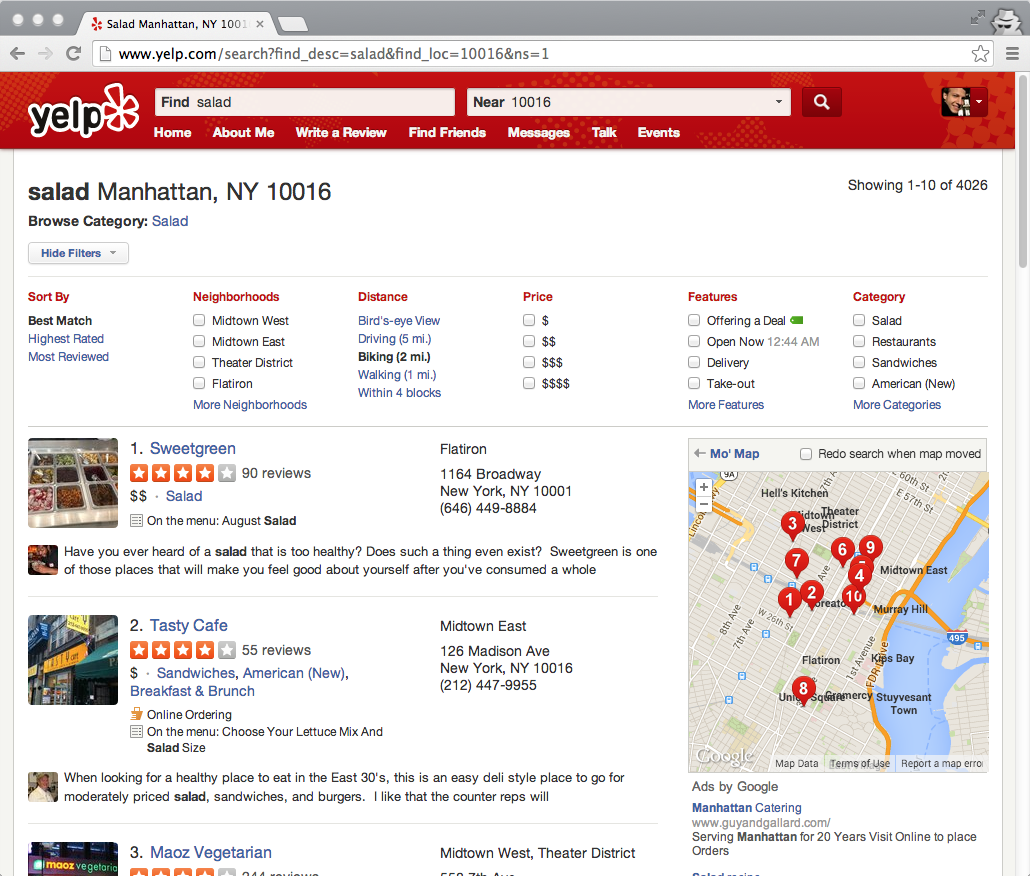
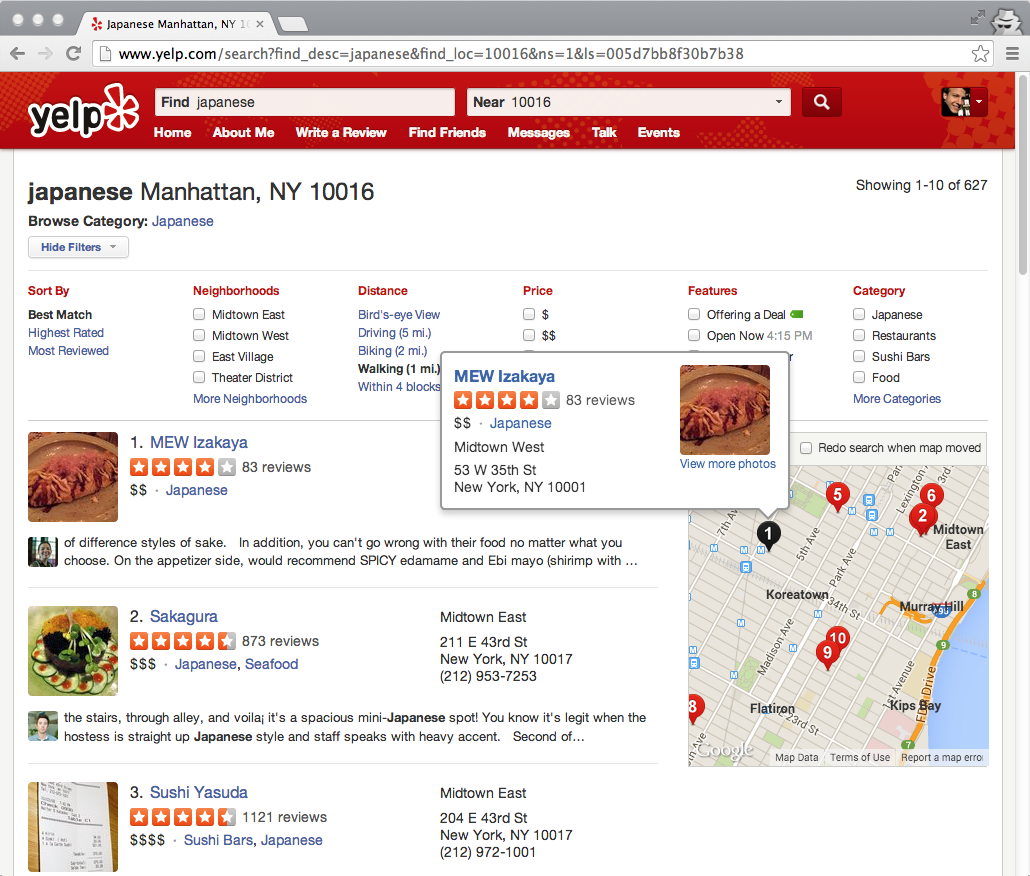
Update Foursquare and Yelp screenshots
I don't think I need to both with two views for their mobile apps, so consolidating.

Also, switching query terms from "Salad" to "Japanese" to match examples later.

Note that I had to git filter-branch out the old Foursquare photos, since they had photos of my friends. These have been edited to have Facebox.io avatars and made-up names :)

diff --git a/source/_posts/2014-02-24-pick-a-card-any-card.md b/source/_posts/2014-02-24-pick-a-card-any-card.md
@@ -49,7 +49,6 @@ styles: |
   #main .entry .entry-content p>img.iphone.pair.right {
     margin-left: 20px;
   }
-TODO: replace photos in foursquare screenshots of my friends with generic facebok photos?
 ---
 
 >What movie should I watch?
@@ -90,10 +89,10 @@ Just as in a store a customer would have to physically remove the movie from the
 As another example, consider a user who wants to try a new restaurant for dinner. Users can take advantage of services such as Foursquare and Yelp to help them make these choices. While there is some variation the interfaces, results are usually provided in both list and map formats. In the browser, there’s enough space to show them side-by-side (note that the Yelp map can be expanded), but on mobile users toggle between the different views (on Foursquare, scrolling the list minimizes the map, and tapping the map minimizes the list; Yelp offers a List/Map button in the upper right).
 
 {% img browser left /images/2014/02/foursquare_desktop.png %}
-{% img iphone right /images/2014/02/foursquare_mobile_1.png %}
+{% img iphone right /images/2014/02/foursquare_mobile.png %}
 
 {% img browser left /images/2014/02/yelp_desktop.png %}
-{% img iphone right /images/2014/02/yelp_mobile_1.png %}
+{% img iphone right /images/2014/02/yelp_mobile.png %}
 
 These interfaces are designed to show good options of a certain type in a certain area, but they make it difficult for the user to make informed choices, especially on mobile. While the browser makes it easy to see the basic information about each venue along with where it’s located, the separate list and map views in the mobile interfaces force the user to either tap through to the venue detail page or cross-reference between the two screens in order to see where anything is.
 
